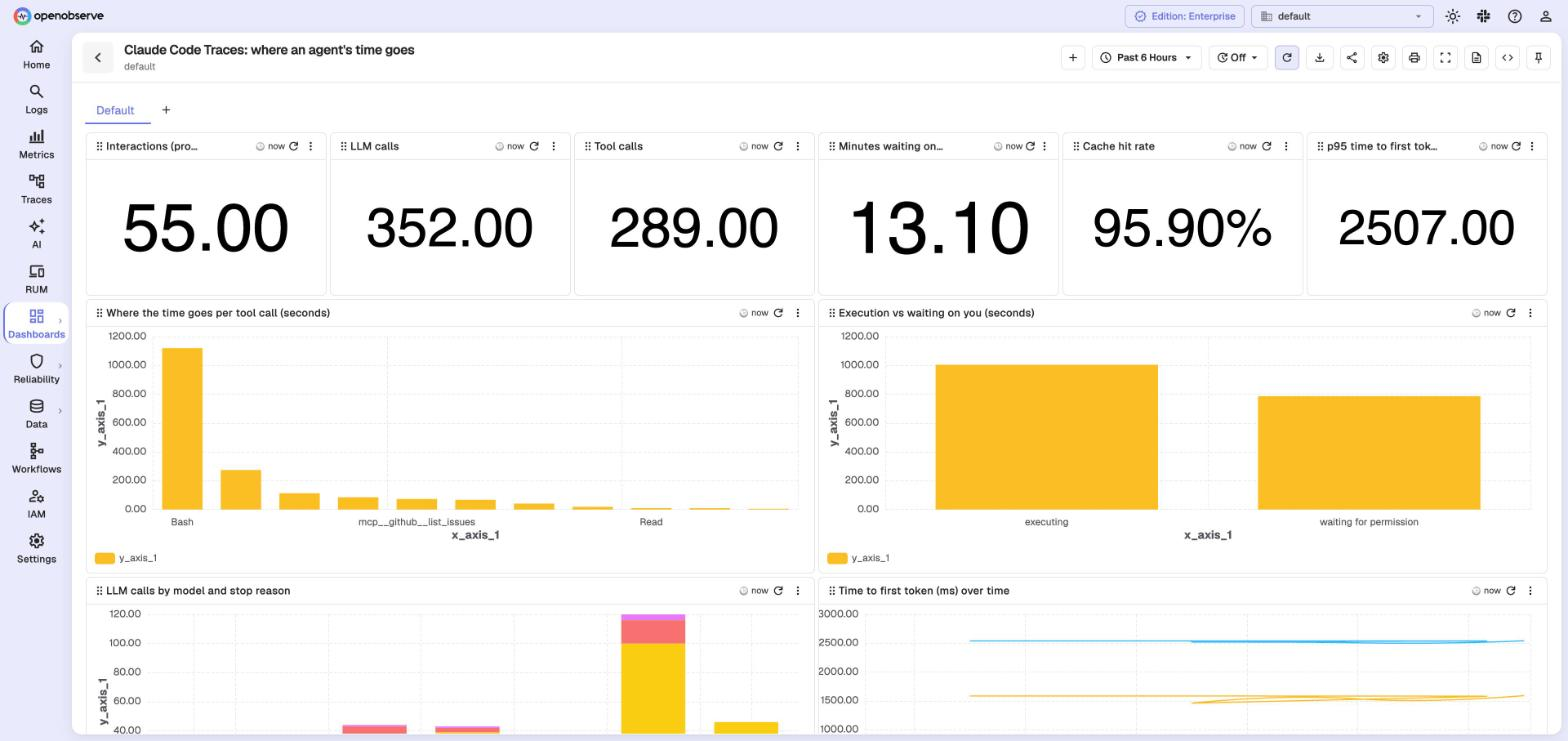
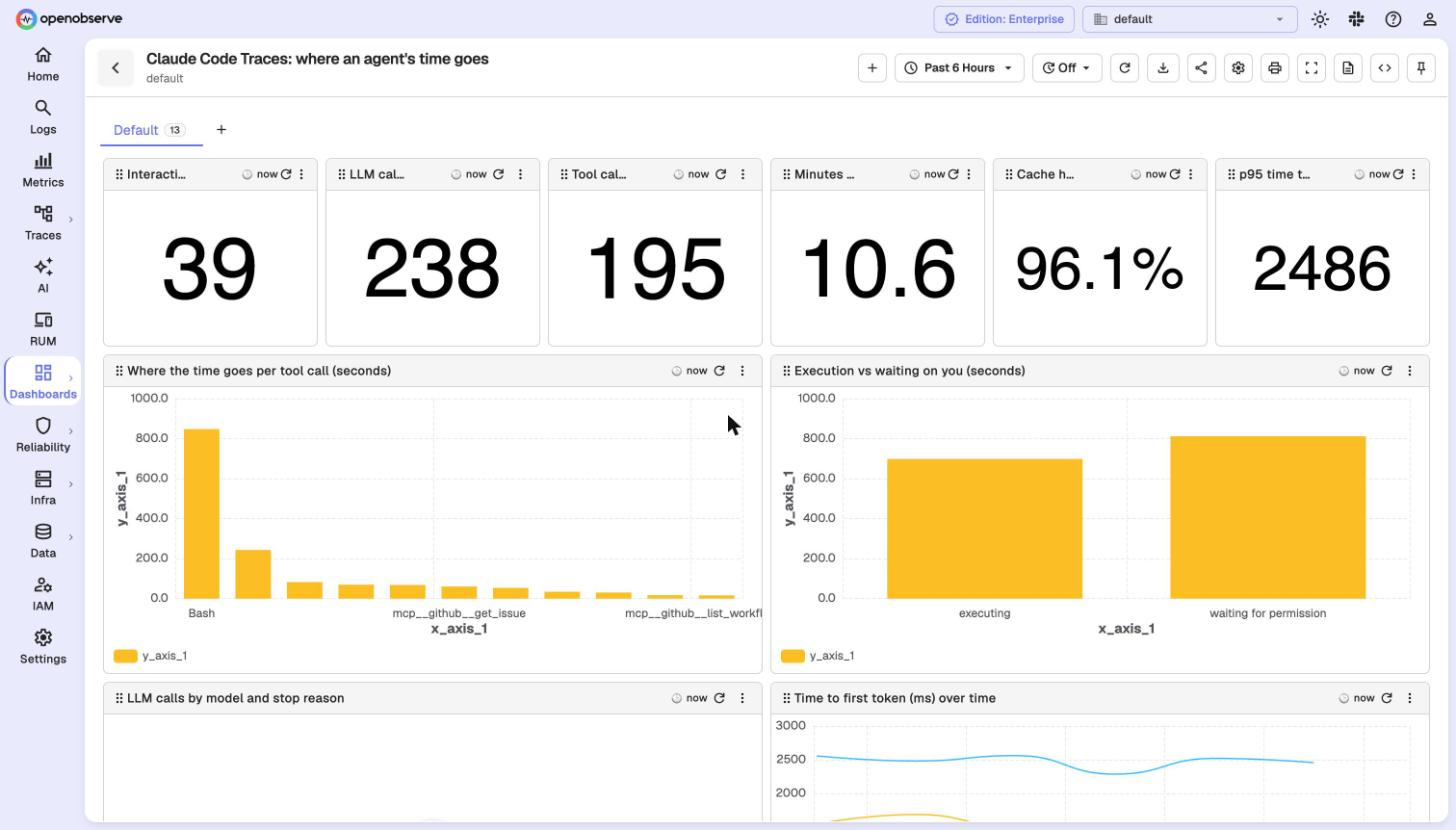
Refresh every screenshot and open the README with the end-to-end diagram
All screenshots are retaken on a fresh clone with example data, including
new ones for the Overview and Ops dashboards. The README now starts with
the diagram of how the pieces fit, and the waterfall moves to "What to
look at".

Two fixes made the new shots honest. The Traces dashboard JSON never got
the decimals fix, so counts read "55.00". And the example generator only
recorded a wait span when a person approved a tool, so the Overview's
rule-approved tiles were empty; it now records the short wait real
Claude Code records for rule approvals too.

diff --git a/demo/generate-agent-traces.py b/demo/generate-agent-traces.py
@@ -232,6 +232,12 @@ class Task:
                      num_success=1, num_blocking=0)
             t = blocked.end
         else:
+            # Real Claude Code records a short wait span for approvals your settings rules make, too.
+            wait = self.ms(150, 2600)
+            self.batch.spans.append(Span("claude-code", "claude_code.tool.blocked_on_user", self.trace_id, t, t + wait,
+                                         tool.span_id, attributes={"duration_ms": str(wait // MS), "decision": "accept",
+                                                                   "source": "config", "demo.synthetic": True}))
+            t += wait
             self.log(t, tool, "tool_decision", tool_name=tool_name, decision="accept", source="config",
                      tool_use_id=tool_use_id)
 

diff --git a/README.md b/README.md
@@ -11,7 +11,7 @@ actually does when you give it a task: every model call, every tool it runs, how
 it waiting, and what it cost. When you're ready, connect your own Claude Code and watch your
 real sessions.
 
-![One agent task as a trace: model calls, tools, a helper agent, and time spent waiting for you](docs/images/trace-waterfall-subagent.jpg)
+![How the playground fits together: Claude Code, example data or your app send OTLP to one OpenObserve container, which you read in the browser](docs/images/how-it-fits.png)
 
 ## Try it in one command
 
@@ -69,10 +69,10 @@ how many steps it had, and whether something failed.
 tool, or waiting for you to say "yes". Steps inside steps show a helper agent at work, or a
 call that went out to another service.
 
-![A trace that crosses into an MCP server and GitHub](docs/images/trace-waterfall-mcp.jpg)
+![One agent task as a trace: model calls, tools, a helper agent, and time spent waiting for you](docs/images/trace-waterfall-subagent.jpg)
 
-**The service graph.** *Traces → Service Graph → Graph View.* A map of everything the agent
-talked to: the AI models, the MCP server, and GitHub behind it.
+**The service graph.** *Traces → Service Graph.* A map of everything the agent talked to: the
+AI model, the MCP server, and GitHub behind it.
 
 ![Service graph](docs/images/service-graph.jpg)
 
@@ -81,11 +81,15 @@ moment, right beside the trace.
 
 ![Logs for a span](docs/images/trace-to-logs.jpg)
 
+**The dashboards.** *Dashboards → Claude Code · Overview.* The headline numbers on one page:
+sessions, cost per session, how often the agent waited for you, latency and subagents. Three
+more dashboards go deeper; they're listed in [claude-code/](claude-code/).
+
+![Claude Code · Overview dashboard](docs/images/dashboard-overview.jpg)
+
 There's a full guided tour, with the queries behind each view, in
 **[docs/tracing-tour.md](docs/tracing-tour.md)**. For what happens between Claude Code and the
 screen, with diagrams, see **[docs/how-it-works.md](docs/how-it-works.md)**.
-
-![How the playground fits together](docs/images/how-it-fits.png)
 
 ## Use your own data
 

diff --git a/docs/tracing-tour.md b/docs/tracing-tour.md
@@ -38,9 +38,11 @@ flowchart TD
 
 ## 2. The list of tasks
 
-Go to **Traces** and pick the stream `claude_code`. Each row is one task: when it ran, how
-long it took, how many steps it had, and whether something failed. The three small charts on
-top show how many tasks ran, how many had errors, and how long they took.
+Go to **Traces**, open the **Traces** tab and pick the stream `claude_code`. Each row is one
+task: when it ran, how long it took, how many steps it had, and whether something failed. The
+screenshot filters on `operation_name = 'claude_code.interaction'`, so only whole tasks show
+up. The three small charts on top show how many tasks ran, how many had errors, and how long
+they took.
 
 ![Traces list](images/traces-list.jpg)
 
@@ -83,8 +85,8 @@ The **Attributes** tab has everything else that was recorded about the step:
 
 ## 5. The big picture
 
-**Traces → Service Graph → Graph View** draws everything the agent talked to: the AI models,
-the MCP server, and GitHub behind it. A green border means few errors; red means many.
+**Traces → Service Graph** draws everything the agent talked to: the AI model, the MCP server,
+and GitHub behind it. A green border means few errors; red means many.
 
 ![Service graph](images/service-graph.jpg)
 
@@ -108,8 +110,12 @@ their logs every 10 minutes.
 
 ## 7. Turn steps into numbers
 
-Steps are data, so you can ask questions with SQL and put the answers on a dashboard. For
-example, "where does the agent's time go?":
+Steps are data, so you can ask questions with SQL and put the answers on a dashboard. The
+**Claude Code · Overview** dashboard puts the headline numbers on one page:
+
+![Claude Code · Overview dashboard](images/dashboard-overview.jpg)
+
+And **Claude Code Traces** answers "where does the agent's time go?":
 
 ![Traces dashboard](images/dashboard-traces.jpg)
 

diff --git a/CHANGELOG.md b/CHANGELOG.md
@@ -13,9 +13,18 @@ Format: [Keep a Changelog](https://keepachangelog.com/en/1.1.0/). Versions follo
 - Claude Code · Overview dashboard: sessions, cost per session, waits on a human, rule-approved
   checks, p95/p99 latency and subagents.
 
+### Changed
+- New screenshots for the README, the tracing tour and the Claude Code page, taken on a fresh
+  clone with example data, plus Overview and Ops dashboard shots. The README now opens with the
+  end-to-end diagram.
+
 ### Fixed
 - The "Minutes waiting on a human" tile counted every permission check, including the ones
   settings rules approve in about a second. It now counts only waits on a person.
+- The Claude Code Traces dashboard showed counts as "55.00". Counts now have no decimals;
+  minutes, seconds and percentages have one.
+- The example data had no rule-approved permission checks, so the Overview showed 0 and
+  "No Data" for them. It now records a short wait for those too, as real Claude Code does.
 
 ## [1.0.1] - 2026-10-13
 

diff --git a/claude-code/README.md b/claude-code/README.md
@@ -53,6 +53,12 @@ This removes the telemetry settings from `~/.claude/settings.json`. Both `make c
 | **Claude Code Traces** | Where does the time go: the model, the tools, or waiting for me? |
 | **Claude Code Team Productivity** | Cost, tokens, sessions and tool use per person |
 
+Overview and Ops, with example data:
+
+![Claude Code · Overview](../docs/images/dashboard-overview.jpg)
+
+![Claude Code · Ops](../docs/images/dashboard-ops.jpg)
+
 ## The alerts
 
 | Alert | Tells you when |
